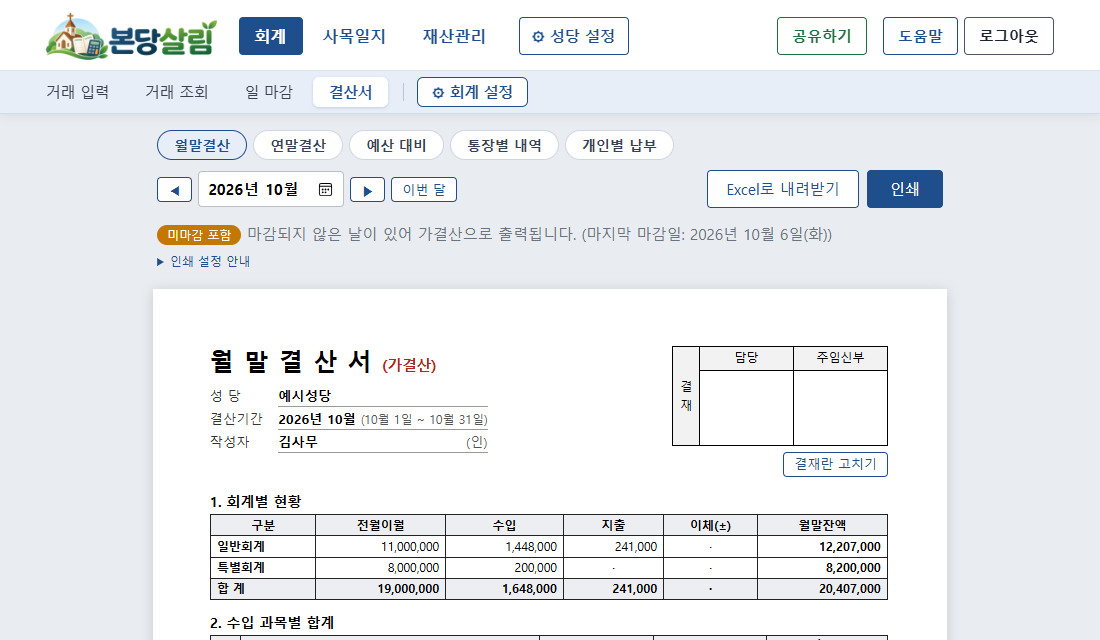
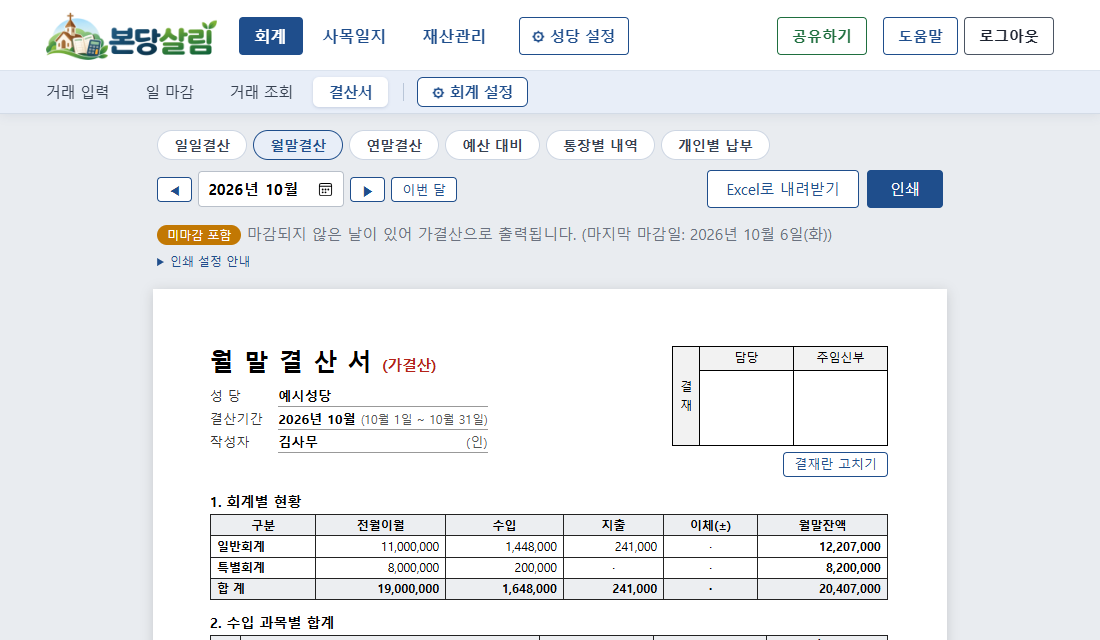
마감은 일 마감 화면에서만: 거래 입력 · 사목일지의 마감 띠 → 한 줄 안내(일 마감 →), 일 마감 화면 위쪽 큰 버튼 뺌, 메뉴 순서 거래 입력 · 일 마감 · 거래 조회 · 결산서, 도움말 · 그림 갱신

Changed region(s): [[0.1545, 0.2188, 0.68, 0.25], [0.2164, 0.125, 0.2782, 0.1562], [0.1236, 0.125, 0.1855, 0.1562]]

diff --git a/public/help.html b/public/help.html
@@ -47,7 +47,7 @@
           <div><span class="n">3단계</span><b>최초 설정</b><p>운영 개시일, 통장과 초기잔액, 예산과목을 차례로 넣습니다. 결재란은 나중에 인쇄할 때 정합니다.</p></div>
         </div>
         <figure><img src="/img/help/setup.png" alt="최초 설정 화면: 성당명, 운영 개시일, 결산서 작성자" loading="lazy" width="1100" height="400"></figure>
-        <p><b>위 메뉴:</b> <b>회계 · 사목일지 · 재산관리</b> 중 하나를 누르면 그 묶음의 첫 화면이 열리고, 바로 아래 줄에 작은 메뉴가 보입니다. 예를 들어 [회계]를 누르면 거래 입력이 열리고, 아래 줄에서 거래 조회 · 일 마감 · 결산서 · <b>⚙ 회계 설정</b>으로 옮겨 갑니다. 오른쪽 위 <b>⚙ 성당 설정</b>은 성당 정보 · 백업 · 함께 사용입니다. 로고를 누르면 홈입니다.</p>
+        <p><b>위 메뉴:</b> <b>회계 · 사목일지 · 재산관리</b> 중 하나를 누르면 그 묶음의 첫 화면이 열리고, 바로 아래 줄에 작은 메뉴가 보입니다. 예를 들어 [회계]를 누르면 거래 입력이 열리고, 아래 줄에서 일 마감 · 거래 조회 · 결산서 · <b>⚙ 회계 설정</b>으로 옮겨 갑니다. 오른쪽 위 <b>⚙ 성당 설정</b>은 성당 정보 · 백업 · 함께 사용입니다. 로고를 누르면 홈입니다.</p>
         <div class="tip">💡 <b>운영 개시일</b>은 잔액을 확실히 아는 날로 정하세요. 예를 들어 11월 1일로 정하면, 각 통장의 초기잔액은 <b>10월 31일 마감 잔액</b>입니다. 운영 개시일 이전 날짜로는 거래를 넣을 수 없습니다.</div>
         <p>설정을 마치면 홈 화면의 <b>[바탕화면에 아이콘 만들기]</b>를 눌러 두세요. 다음부터는 아이콘만 누르면 열립니다.</p>
         <p class="help">다른 사람이 [⚙ 성당 설정 → 함께 사용]에 내 구글 이메일을 등록해 두었다면, 로그인하는 순간 2·3단계 없이 그 성당 장부가 바로 열립니다.</p>
@@ -69,7 +69,7 @@
         </table>
         <div class="tip">💡 저장한 뒤에도 통장과 과목은 그대로 남고 금액 칸으로 돌아갑니다. 같은 과목의 교무금을 여러 건 넣을 때 금액과 적요만 바꿔 계속 입력하면 됩니다.</div>
         <p><b>고치기 · 지우기:</b> 아래 거래 내역에서 해당 줄의 [수정] 또는 [삭제]를 누릅니다. 마감한 날짜의 거래는 먼저 <a href="#closing">마감취소</a>를 해야 고칠 수 있습니다.</p>
-        <p><b>그날 마감:</b> 입력을 마쳤으면 거래 내역 아래의 <b>[이 날짜 마감하기]</b>를 누릅니다. 일 마감 화면으로 가지 않아도 됩니다. (앞 날짜가 아직 마감 전이면 그 날짜를 먼저 마감하라고 알려 줍니다)</p>
+        <p><b>그날 마감:</b> 입력을 마쳤으면 바로 옆 메뉴 <b>[일 마감]</b>에서 마감합니다. 마감 전인 날은 거래 내역 아래에 "○월 ○일 · 마감 전입니다 · 일 마감 →" 한 줄이 보이고, 누르면 그 날짜로 일 마감 화면이 열립니다.</p>
         <p><b>수입 차감 (봉헌권 등):</b> 미리 수입으로 잡은 봉헌권 금액은 주일헌금에서 빼야 합니다. 먼저 [⚙ 회계 설정 → 예산과목]에서 봉헌권 과목을 [수정] → <b>차감(−) 허용</b>으로 표시합니다. 그 과목을 고르면 금액 옆에 <b>[차감(−)]</b> 칸이 나오고, 체크해서 저장하면 수입 내역에 <b>−금액</b>으로 들어갑니다. 예) 주일헌금(봉헌권 포함) 2,900,000 / 봉헌권 차감 −400,000 → 수입 합계 2,500,000</p>
         <p><b>납부자 (특별회계):</b> 특별회계 통장으로 수입을 넣을 때만 <b>납부자</b> 칸이 나옵니다. 연말에 [결산서 → 개인별 납부]로 사람별 납부 내역을 뽑을 때 씁니다. 같은 이름은 "홍길동(베드로)"처럼 구분해서 적고, 한 번 적은 이름은 몇 글자만 치면 아래에 떠서 고를 수 있습니다. 일반회계(교무금 · 봉헌권 등)는 칸이 나오지 않습니다.</p>
       </section>
@@ -98,8 +98,8 @@
         <figure><img src="/img/help/closing.png" alt="일 마감 화면: 달력(초록 마감, 주황 미마감)과 선택한 날의 현황, 마감하기 버튼" loading="lazy" width="1100" height="700"></figure>
         <ul>
           <li>달력 색: <b class="in">초록</b> 마감 · <b style="color:#c27803">주황</b> 미마감 · <b class="out">빨강</b> 마감취소됨 (예전에 거래 없이 함께 잠긴 날은 <b style="color:#9ca3af">회색</b> "자동 마감"으로 보입니다)</li>
-          <li>[이 날짜 마감하기]를 누르면 그날의 잔액과 <b>결산서 작성자</b>가 나옵니다. 확인하고 [마감]을 누릅니다.</li>
-          <li>마감은 <b>하루씩 순서대로</b>만 됩니다. 마감할 수 있는 날은 "다음 마감할 날" 하나뿐이고, 화면 위의 [○월 ○일 마감하기] 버튼으로 바로 마감할 수 있습니다.</li>
+          <li>화면을 열면 <b>다음 마감할 날</b>이 골라져 있습니다. 오른쪽에서 그날 숫자를 확인하고 <b>[이 날짜 마감하기]</b>를 누르면 그날의 잔액과 <b>결산서 작성자</b>가 나옵니다. 확인하고 [마감]을 누릅니다.</li>
+          <li>마감은 <b>하루씩 순서대로</b>만 됩니다. 마감할 수 있는 날은 "다음 마감할 날" 하나뿐입니다. 마감은 이 화면에서만 합니다.</li>
           <li><b>마감취소</b>는 가장 마지막에 마감한 날부터 거꾸로만 됩니다. 달력에서 그날을 고르고 [마감취소]를 누릅니다(메모는 적지 않아도 됩니다). 고친 뒤 다시 마감하세요.</li>
         </ul>
       </section>

diff --git a/public/js/ui.js b/public/js/ui.js
@@ -15,7 +15,7 @@ const ICON = {
 };
 // items: [주소, 이름, 화면 key]. 묶음마다 아래 줄 끝에 ⚙ 설정 (그 기능에 필요한 설정만)
 const GROUPS = [
-  { key: 'acct', label: '회계', items: [['/entry', '거래 입력', 'entry'], ['/ledger', '거래 조회', 'ledger'], ['/closing', '일 마감', 'closing'], ['/report', '결산서', 'report']] },
+  { key: 'acct', label: '회계', items: [['/entry', '거래 입력', 'entry'], ['/closing', '일 마감', 'closing'], ['/ledger', '거래 조회', 'ledger'], ['/report', '결산서', 'report']] },
   { key: 'journal', label: '사목일지', items: [['/journal', '사목일지', 'journal']] },
   { key: 'property', label: '재산관리', items: [['/equipment', '비품대장', 'equipment']] },
 ];
@@ -293,37 +293,21 @@ export function typeLabel(t) {
 export const FUND_LABEL = { GENERAL: '일반회계', SPECIAL: '특별회계' };
 export const KIND_LABEL = { INCOME: '수입', EXPENSE: '지출' };
 
-// ---------------------------------------------------------------- 그날 마감 (거래 입력 · 사목일지에서 바로)
+// ---------------------------------------------------------------- 마감 전 안내 (거래 입력 · 사목일지)
 
 /**
- * 마감 안내: info = GET /api/closings/:date 응답.
- * 마감할 수 있는 날이면 [이 날짜 마감하기], 앞 날짜가 남았으면 그 날짜 안내, 이미 마감했으면 빈 글자.
+ * 마감 전 한 줄 안내: info = GET /api/closings/:date 응답. 마감은 [일 마감] 화면에서만 한다.
+ * 마감했거나 마감할 날이 아니면(미래 · 개시일 전) 빈 글자.
  */
-export function closeBarHtml(info, { hint = '마감하면 이 날짜 거래는 잠기고, 일일결산서가 확정됩니다.' } = {}) {
+export function closeNoticeHtml(info) {
   const d = info.date;
   if (info.closing?.status === 'CLOSED' || (info.lastClosed && d <= info.lastClosed) || d > info.today || d < info.startDate) return '';
-  if (info.canClose) {
-    return `<div class="close-bar no-print"><span><b>${formatDay(d)} 입력을 마쳤으면</b> <span class="muted">— ${hint}</span></span>
-      <button type="button" data-close-day="${d}">이 날짜 마감하기</button></div>`;
-  }
-  return `<div class="close-bar pending no-print"><span>마감은 하루씩 순서대로 합니다. 먼저 <b>${formatDay(info.nextRequired)}</b>을(를) 마감하세요.</span>
-    <a class="button secondary" href="${href(`/closing?date=${info.nextRequired}`)}">일 마감 화면</a></div>`;
+  const first = !info.canClose && info.nextRequired && info.nextRequired < d ? info.nextRequired : null; // 앞 날짜가 먼저
+  return `<p class="close-note no-print"><b>${formatDay(d)}</b> · 마감 전입니다${first ? ` (마감은 하루씩 순서대로 — ${formatDay(first)}부터)` : ''}
+    <a href="${href(`/closing?date=${first ?? d}`)}">일 마감 →</a></p>`;
 }
 
 const formatDay = (d) => `${Number(d.slice(5, 7))}월 ${Number(d.slice(8, 10))}일`;
-
-/** 확인을 받고 그날을 마감한다 (결산서 작성자는 설정의 기본 작성자). 마감했으면 true */
-export async function closeDay(date) {
-  if (!confirm(`${formatDay(date)}을(를) 마감할까요?\n\n마감하면 이 날짜와 그 이전 거래는 고칠 수 없습니다.\n(고칠 때는 일 마감 화면에서 마감취소)`)) return false;
-  try {
-    await api(`/api/closings/${date}/close`, { method: 'POST', body: {} });
-    toast(`${formatDay(date)}을(를) 마감했습니다.`);
-    return true;
-  } catch (err) {
-    toast(err.message, 'error');
-    return false;
-  }
-}
 
 // ---------------------------------------------------------------- 결재란 + [결재란 고치기] (사목일지 · 결산서)
 

diff --git a/public/js/journal.js b/public/js/journal.js
@@ -6,7 +6,7 @@
 // 인쇄: 1쪽(사진까지)과 2쪽(회계)이 각각 A4 한 장에 들어가도록, 넘치면 사진 → 전체 순서로 줄인다.
 // 내용이 없는 칸에는 가운데 점(·)이 보이고 그대로 인쇄된다.
 import { api, esc } from './api.js';
-import { initPage, toast, approvalAreaHtml, closeBarHtml, closeDay } from './ui.js';
+import { initPage, toast, approvalAreaHtml, closeNoticeHtml } from './ui.js';
 import { formatWon } from './shared/money.js';
 import { addDays, formatDateTimeKST, formatKoreanDate, isValidDate, todayKST } from './shared/dates.js';
 import { accountBalances, cashTable, detailTable, fundSummaryTable, hasCash, transferTable } from './daily-tables.js';
@@ -235,7 +235,7 @@ function fitNotes() {
   t.style.height = `${Math.max(t.scrollHeight + 2, 100)}px`;
 }
 
-/** 2쪽(회계)만 다시 그린다 — 여기서 마감해도 1쪽에 입력 중인 내용은 그대로 */
+/** 2쪽(회계) — 마감 전이면 한 줄 안내 (마감은 [일 마감] 화면에서) */
 function renderPage2(day, info) {
   paper2.hidden = false;
   paper2.innerHTML = `
@@ -248,7 +248,7 @@ function renderPage2(day, info) {
 function accountingHtml(day, info) {
   if (day.status !== 'CLOSED') {
     return `<div class="wait">이 날짜는 아직 일 마감 전입니다. 마감하면 그날 회계 내용이 여기에 나옵니다.</div>
-      ${closeBarHtml(info, { hint: '마감하면 이 날짜 거래는 잠기고 여기에 회계가 나옵니다.' })}`;
+      ${closeNoticeHtml(info)}`;
   }
   const warn = day.verification && !day.verification.ok
     ? `<p class="lock-banner no-print">마감 시점 잔액과 현재 잔액이 다릅니다: ${day.verification.mismatches.map((m) => esc(m.name)).join(', ')}. 관리자에게 확인하세요.</p>` : '';
@@ -426,15 +426,6 @@ document.addEventListener('keydown', (e) => {
   if ((e.ctrlKey || e.metaKey) && e.key.toLowerCase() === 's') { e.preventDefault(); save(); }
 });
 window.addEventListener('beforeunload', (e) => { if (dirty) e.preventDefault(); });
-
-// 2쪽에서 바로 마감 → 2쪽만 새로 불러온다
-paper2.addEventListener('click', async (e) => {
-  const b = e.target.closest('[data-close-day]');
-  if (!b || !(await closeDay(b.dataset.closeDay))) return;
-  const date = b.dataset.closeDay;
-  const [day, info] = await Promise.all([api(`/api/reports/daily?date=${date}`), api(`/api/closings/${date}`)]);
-  if (journal?.date === date) renderPage2(day, info);
-});
 
 $('save').addEventListener('click', save);
 $('print').addEventListener('click', () => window.print());

diff --git a/public/js/entry.js b/public/js/entry.js
@@ -1,7 +1,7 @@
 // 거래 입력 화면: 수입·지출·이체 입력, 수정, 삭제, 하루 현황
 import { href } from './base.js';
 import { api, esc } from './api.js';
-import { initPage, bindAmountInput, toast, signedWon, closeBarHtml, closeDay, FUND_LABEL } from './ui.js';
+import { initPage, bindAmountInput, toast, signedWon, closeNoticeHtml, FUND_LABEL } from './ui.js';
 import { formatWon, parseAmount, sumAmounts } from './shared/money.js';
 import { addDays, formatKoreanDate, isValidDate, todayKST } from './shared/dates.js';
 
@@ -128,8 +128,8 @@ async function loadDay() {
   const [next, info] = await Promise.all([api(`/api/day?date=${date}`), api(`/api/closings/${date}`)]);
   if (next.date !== $('date').value) return; // 그 사이 날짜가 바뀜
   day = next;
-  // 거래 내역 아래: 입력을 마쳤으면 여기서 바로 마감
-  $('close-bar').innerHTML = closeBarHtml(info);
+  // 거래 내역 아래: 마감 전이면 한 줄 안내 (마감은 [일 마감] 화면에서)
+  $('close-bar').innerHTML = closeNoticeHtml(info);
   $('date-label').textContent = formatKoreanDate(date);
   $('summary-date').textContent = formatKoreanDate(date);
   renderLock();
@@ -405,10 +405,6 @@ function changeDate(next) {
 
 $('date').addEventListener('change', () => changeDate($('date').value));
 $('account').addEventListener('change', updatePayerField);
-$('close-bar').addEventListener('click', async (e) => {
-  const b = e.target.closest('[data-close-day]');
-  if (b && await closeDay(b.dataset.closeDay)) await loadDay();
-});
 $('subject').addEventListener('change', () => { updateDeductField(); updateEquipmentField(); });
 $('eq-on').addEventListener('change', updateEquipmentField);
 $('prev-day').addEventListener('click', () => changeDate(addDays($('date').value, -1)));

diff --git a/public/js/closing.js b/public/js/closing.js
@@ -19,14 +19,12 @@ let calendar = null;
 
 function renderStatus() {
   const c = calendar;
-  const next = c.closableUntil;
   const needs = c.nextRequired && c.nextRequired <= c.today;
   $('status').innerHTML = `
     <div class="status-item"><span class="muted">마지막 마감일</span>
       <b>${c.lastClosed ? formatKoreanDate(c.lastClosed) : '없음'}</b></div>
     <div class="status-item"><span class="muted">다음 마감할 날</span>
-      <b>${needs ? formatKoreanDate(c.nextRequired) : '<span class="muted">오늘까지 모두 마감했습니다</span>'}</b></div>
-    ${needs ? `<button type="button" id="quick-close" data-date="${next}">${formatKoreanDate(next)} 마감하기</button>` : ''}`;
+      <b>${needs ? formatKoreanDate(c.nextRequired) : '<span class="muted">오늘까지 모두 마감했습니다</span>'}</b></div>`;
 }
 
 // ---------------------------------------------------------------- 달력
@@ -209,8 +207,8 @@ $('next-month').addEventListener('click', () => {
   run(loadCalendar());
 });
 document.addEventListener('click', (e) => {
-  const close = e.target.closest('[data-close-date], #quick-close');
-  if (close) { run(goto(close.dataset.date ?? close.dataset.closeDate).then(() => openCloseDialog(close.dataset.date ?? close.dataset.closeDate))); return; }
+  const close = e.target.closest('[data-close-date]');
+  if (close) { run(goto(close.dataset.closeDate).then(() => openCloseDialog(close.dataset.closeDate))); return; }
   const reopen = e.target.closest('[data-reopen]');
   if (reopen) { openReopenDialog(reopen.dataset.reopen); return; }
   if (e.target.closest('[data-cancel]') || e.target === $('action-dialog')) $('action-dialog').close();

diff --git a/public/css/app.css b/public/css/app.css
@@ -610,6 +610,10 @@ td.num.minus { color: #b42318; }
 .close-bar { display: flex; align-items: center; justify-content: space-between; gap: 10px; flex-wrap: wrap; margin-top: 12px; padding: 12px 14px; border: 1.5px solid var(--accent); border-radius: 8px; background: var(--accent-soft); }
 .close-bar.pending { border-color: #c27803; background: #fff8eb; }
 .close-bar:empty { display: none; }
+/* 마감 전 한 줄 안내 (거래 입력 · 사목일지 2쪽) — 마감은 [일 마감] 화면에서만 */
+.close-note { margin: 12px 0 0; font-size: 13.5px; color: var(--muted); }
+.close-note b { color: var(--text); }
+.close-note a { margin-left: 6px; font-weight: 600; }
 
 /* 설정: 위 탭 안의 작은 탭 */
 .subtabs { display: flex; gap: 6px; flex-wrap: wrap; margin: -4px 0 16px; padding-bottom: 12px; border-bottom: 1px solid var(--line); }
